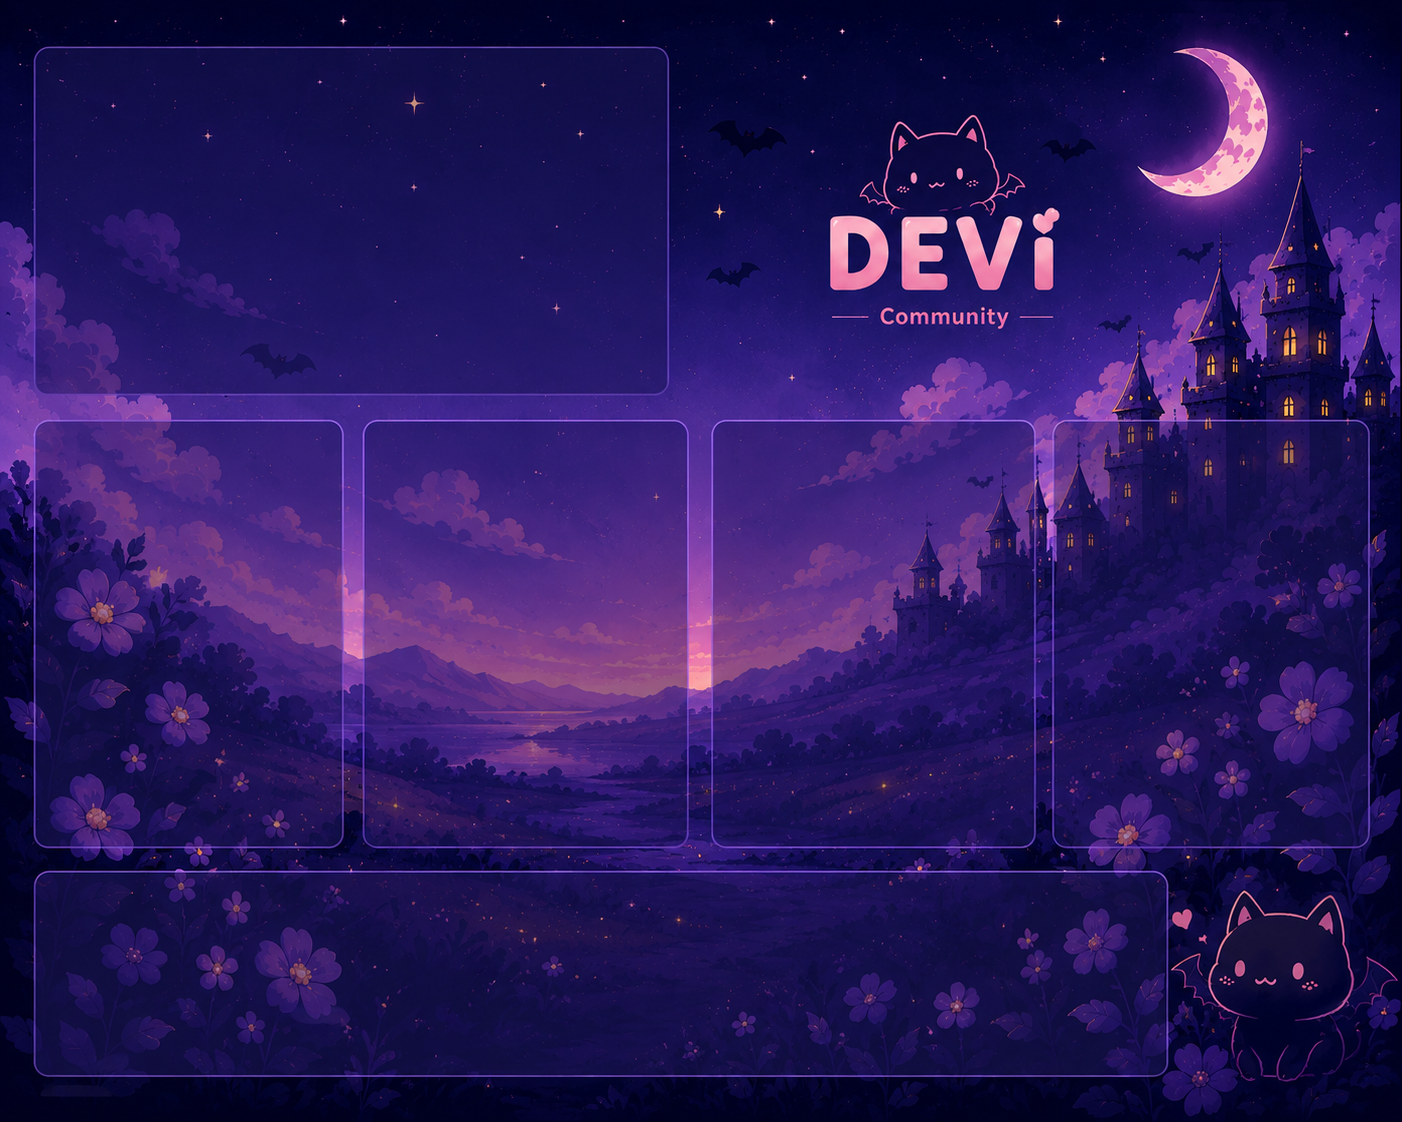
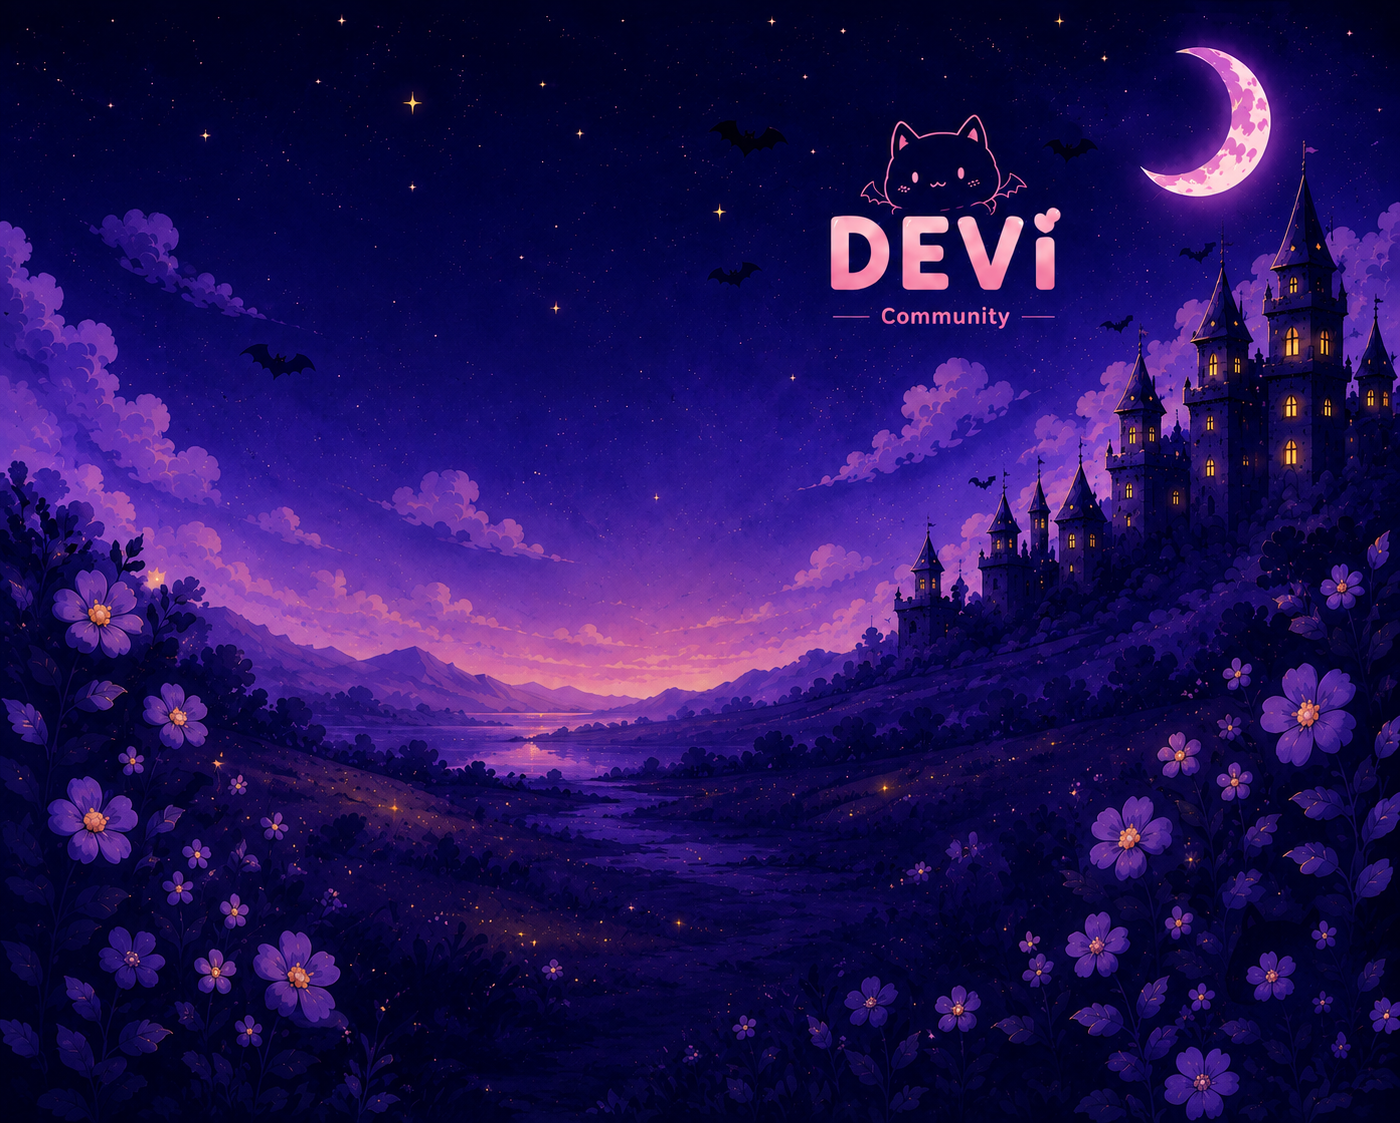
Update bot

diff --git a/cogs/member_onboarding.py b/cogs/member_onboarding.py
@@ -702,153 +702,8 @@ def _draw_centered_text(draw, box, text, font, fill):
     draw.text(((x1 + x2) / 2, (y1 + y2) / 2), text, font=font, fill=fill, anchor='mm')
 
 
-async def _build_profile_card_file_legacy(member, p):
-    """背景・ガラスUI・可変情報を完全分離してプロフィールカードを生成する。"""
-    from datetime import datetime, timezone
-
-    width, height = 1370, 1148
-    root = os.path.dirname(os.path.dirname(__file__))
-    raw_theme_key = (p.get('profile_theme') or 'devi').strip()
-    theme_key = THEME_ALIASES.get(raw_theme_key, raw_theme_key)
-    bg_path = os.path.join(root, 'assets', 'profile', 'backgrounds', f'{theme_key}.png')
-    overlay_path = os.path.join(root, 'assets', 'profile', 'overlays', 'glass_overlay.png')
-
-    try:
-        src = Image.open(bg_path).convert('RGB')
-        img = ImageOps.fit(src, (width, height), method=Image.Resampling.LANCZOS).convert('RGBA')
-    except Exception:
-        img = Image.new('RGBA', (width, height), '#20213f')
-
-    try:
-        overlay = Image.open(overlay_path).convert('RGBA')
-        if overlay.size != (width, height):
-            overlay = overlay.resize((width, height), Image.Resampling.LANCZOS)
-        img.alpha_composite(overlay)
-    except Exception:
-        pass
-
-    draw = ImageDraw.Draw(img)
-    text_main = (246, 244, 252)
-    text_sub = (196, 184, 220)
-    input_fill = (20, 20, 48, 210)
-    title_col = (211, 172, 240)
-
-    small = _find_japanese_font(22)
-    small_b = _find_japanese_font(22, bold=True)
-    medium = _find_japanese_font(28)
-    medium_b = _find_japanese_font(28, bold=True)
-
-    name = (p.get('nickname') or member.display_name).strip()
-    mbti = (p.get('mbti') or '').strip() or '未設定'
-    hobby = (p.get('hobby') or '').strip() or '—'
-    comment = (p.get('comment') or '').strip() or '—'
-
-    # Header profile information
-    draw.text((350, 92), 'MEMBER PROFILE', font=_find_japanese_font(25, bold=True), fill=title_col)
-    nf = _fit_text(draw, name, 280, 64, 36, bold=True)
-    draw.text((350, 140), name, font=nf, fill=text_main)
-    draw.text((350, 220), f'@{member.name}', font=medium, fill=(174, 157, 201))
-    badge_w = max(100, draw.textbbox((0, 0), mbti, font=medium_b)[2] + 38)
-    badge_box = (350, 265, 350 + badge_w, 321)
-    draw.rounded_rectangle(badge_box, radius=15, fill=(72, 53, 125, 230), outline=(168, 132, 220), width=2)
-    _draw_centered_text(draw, badge_box, mbti, medium_b, text_main)
-    qtext = comment.replace('☆', '★')
-    qf = _fit_text(draw, qtext, 285, 30, 18)
-    draw.text((350, 353), f'“ {qtext} ”', font=qf, fill=(235, 229, 244))
-
-    # Avatar
-    avatar_size = 250
-    ax, ay = 58, 92
-    try:
-        avatar_bytes = await member.display_avatar.with_size(512).read()
-        avatar = Image.open(io.BytesIO(avatar_bytes)).convert('RGB')
-        avatar = ImageOps.fit(avatar, (avatar_size, avatar_size), method=Image.Resampling.LANCZOS)
-        mask = Image.new('L', (avatar_size, avatar_size), 0)
-        ImageDraw.Draw(mask).ellipse((0, 0, avatar_size - 1, avatar_size - 1), fill=255)
-        draw.ellipse((ax - 10, ay - 10, ax + avatar_size + 10, ay + avatar_size + 10), fill=(174, 145, 220))
-        img.paste(avatar, (ax, ay), mask)
-        draw.ellipse((ax + 218, ay + 218, ax + 252, ay + 252), fill=(93, 212, 139), outline=(55, 50, 92), width=4)
-    except Exception:
-        pass
-
-    # Section titles
-    for text, pos in [('ABOUT ME',(50,477)),('ABOUT ME+',(378,477)),('BADGES',(694,477)),('RANKING',(1008,477))]:
-        draw.text(pos, text, font=_find_japanese_font(28, bold=True), fill=title_col)
-
-    # ABOUT ME
-    rows = [('名前', name), ('MBTI', mbti), ('趣味', hobby), ('一言', comment)]
-    ys = [590, 660, 730, 800]
-    for (lab, val), yy in zip(rows, ys):
-        draw.text((58, yy), lab, font=small_b, fill=(204, 188, 224), anchor='lm')
-        vf = _fit_text(draw, val, 145, 25, 16)
-        draw.text((180, yy), val, font=vf, fill=text_main, anchor='lm')
-
-    # ABOUT ME+
-    py = 560
-    for i in (1, 2, 3):
-        q = (p.get(f'about_q{i}') or '').strip() or f'自由項目{i}'
-        a = (p.get(f'about_a{i}') or '').strip() or '—'
-        qf = _fit_text(draw, q, 240, 22, 15, bold=True)
-        draw.text((378, py), q, font=qf, fill=(214, 199, 230))
-        box = (378, py + 31, 620, py + 82)
-        draw.rounded_rectangle(box, radius=10, fill=input_fill, outline=(77, 69, 113), width=1)
-        af = _fit_text(draw, a, 218, 21, 14)
-        draw.text((392, py + 57), a, font=af, fill=text_main, anchor='lm')
-        py += 112
-
-    # BADGES
-    selected = []
-    for key in _badge_keys(p):
-        info = BADGE_LOOKUP[key]
-        selected.append((info['label'], info['color']))
-    custom = (p.get('custom_badge') or '').strip()
-    if custom:
-        selected.append((custom, (130, 145, 170)))
-    selected = selected[:4]
-    while len(selected) < 4:
-        selected.append(('未設定', (90, 90, 120)))
-    boxes = [(688, 575, 806, 685), (820, 575, 940, 685), (688, 710, 806, 820), (820, 710, 940, 820)]
-    for (label, color), box in zip(selected, boxes):
-        fill = tuple(max(18, int(c * .22)) for c in color) + (235,)
-        draw.rounded_rectangle(box, radius=18, fill=fill, outline=color, width=2)
-        cx = (box[0] + box[2]) // 2
-        draw.ellipse((cx - 10, box[1] + 17, cx + 10, box[1] + 37), fill=color)
-        bf = _fit_text(draw, label, box[2] - box[0] - 16, 20, 13, bold=True)
-        draw.text((cx, box[1] + 80), label, font=bf, fill=text_main, anchor='mm')
-
-    # RANKING
-    stats = _profile_weekly_stats(member.guild.id, member.id)
-    joined_days = 0
-    if getattr(member, 'joined_at', None):
-        joined_days = max(1, (datetime.now(timezone.utc) - member.joined_at).days + 1)
-    ranks = [
-        ('VC時間（今週）', f"{stats['vc_rank']}位" if stats['vc_rank'] else '—', _format_profile_vc(stats['vc_total']), (105, 174, 255)),
-        ('チャット数（今週）', f"{stats['chat_rank']}位" if stats['chat_rank'] else '—', f"{stats['chat_total']:,}件", (247, 106, 157)),
-        ('サーバー参加日数', f'{joined_days}日' if joined_days else '—', '', (93, 211, 145)),
-    ]
-    ry = [590, 710, 820]
-    for (lab, val, detail, col), yy in zip(ranks, ry):
-        draw.text((1010, yy), lab, font=small, fill=text_main, anchor='lm')
-        draw.text((1287, yy), val, font=medium_b, fill=col, anchor='rm')
-        if detail:
-            draw.text((1287, yy + 34), detail, font=small, fill=text_sub, anchor='rm')
-
-    # Bottom panels
-    free = ((p.get('free_text') or '').strip() or hobby or '—').replace('☆', '★')
-    draw.text((250, 965), '好きなこと', font=_find_japanese_font(30, bold=True), fill=(238, 139, 193))
-    ff = _fit_text(draw, free, 570, 30, 17)
-    draw.text((250, 1040), free, font=ff, fill=text_main)
-    draw.text((1114, 985), 'DEVI', font=_find_japanese_font(32, bold=True), fill=(235, 140, 194), anchor='ma')
-    draw.text((1114, 1032), 'MEMBER PROFILE', font=small, fill=(170, 153, 199), anchor='ma')
-
-    out = io.BytesIO()
-    img.convert('RGB').save(out, format='PNG', optimize=True)
-    out.seek(0)
-    return discord.File(out, filename=f'profile_{member.id}.png')
-
-
 async def build_profile_card_file(member, p):
-    """DEVI・桜の完成背景へ、同一レイアウトで可変文字とアバターだけを描画する。"""
+    """背景画像 + 共通ガラスUI素材 + 可変文字/アバターでプロフィールカードを生成する。"""
     from datetime import datetime, timezone
 
     raw_theme_key = (p.get('profile_theme') or 'devi').strip()
@@ -858,6 +713,7 @@ async def build_profile_card_file(member, p):
 
     root = os.path.dirname(os.path.dirname(__file__))
     bg_path = os.path.join(root, 'assets', 'profile', 'backgrounds', f'{theme_key}.png')
+    overlay_path = os.path.join(root, 'assets', 'profile', 'overlays', 'glass_overlay.png')
     width, height = 1402, 1122
 
     try:
@@ -866,6 +722,15 @@ async def build_profile_card_file(member, p):
             img = ImageOps.fit(img, (width, height), method=Image.Resampling.LANCZOS)
     except Exception:
         img = Image.new('RGBA', (width, height), '#15133d')
+
+    # 旧背景埋め込み枠は使わず、共通UI素材を重ねる。
+    try:
+        overlay = Image.open(overlay_path).convert('RGBA')
+        if overlay.size != (width, height):
+            overlay = overlay.resize((width, height), Image.Resampling.LANCZOS)
+        img = Image.alpha_composite(img, overlay)
+    except Exception:
+        pass
 
     draw = ImageDraw.Draw(img)
     text_main = (250, 247, 255)
@@ -883,7 +748,7 @@ async def build_profile_card_file(member, p):
     hobby = (p.get('hobby') or '').strip() or '—'
     comment = (p.get('comment') or '').strip() or '—'
 
-    # ── 左上：プロフィール基本情報（枠 34,46 ～ 656,387） ──
+    # ── 上段：PROFILE ──
     avatar_size = 238
     ax, ay = 58, 91
     try:
@@ -902,70 +767,49 @@ async def build_profile_card_file(member, p):
 
     tx = 330
     draw.text((tx, 87), 'MEMBER PROFILE', font=_find_japanese_font(24, bold=True), fill=title_col)
-    nf = _fit_text(draw, name, 292, 58, 34, bold=True)
+    nf = _fit_text(draw, name, 292, 58, 30, bold=True)
     draw.text((tx, 132), name, font=nf, fill=text_main)
-    draw.text((tx, 202), f'@{member.name}', font=medium, fill=text_sub)
+    user_name = f'@{member.name}'
+    uf = _fit_text(draw, user_name, 292, 27, 17)
+    draw.text((tx, 202), user_name, font=uf, fill=text_sub)
 
     badge_w = min(280, max(104, draw.textbbox((0, 0), mbti, font=medium_b)[2] + 42))
     badge_box = (tx, 247, tx + badge_w, 302)
-    draw.rounded_rectangle(badge_box, radius=15, fill=(58, 35, 104, 220), outline=soft_line, width=2)
+    draw.rounded_rectangle(badge_box, radius=15, fill=(58, 35, 104, 205), outline=soft_line, width=2)
     _draw_centered_text(draw, badge_box, mbti, medium_b, text_main)
 
     qtext = comment.replace('☆', '★')
-    qf = _fit_text(draw, f'“ {qtext} ”', 292, 27, 16)
+    qf = _fit_text(draw, f'“ {qtext} ”', 292, 27, 14)
     draw.text((tx, 331), f'“ {qtext} ”', font=qf, fill=(240, 231, 248))
 
-    # ── 中段：4つの透明枠 ──
+    # ── 中段：ABOUT ME / ABOUT ME+ / RANKING ──
     title_font = _find_japanese_font(27, bold=True)
     draw.text((55, 438), 'ABOUT ME', font=title_font, fill=title_col)
-    draw.text((398, 438), 'ABOUT ME+', font=title_font, fill=title_col)
-    draw.text((744, 438), 'BADGES', font=title_font, fill=title_col)
-    draw.text((1085, 438), 'RANKING', font=title_font, fill=title_col)
+    draw.text((487, 438), 'ABOUT ME+', font=title_font, fill=title_col)
+    draw.text((929, 438), 'RANKING', font=title_font, fill=title_col)
 
-    # ABOUT ME（枠 34,412 ～ 337,831）
+    # ABOUT ME（34,412 ～ 445,831）
     rows = [('名前', name), ('MBTI', mbti), ('趣味', hobby), ('一言', comment)]
     ys = [540, 620, 700, 780]
     for (lab, val), yy in zip(rows, ys):
         draw.text((55, yy), lab, font=small_b, fill=(220, 199, 235), anchor='lm')
-        vf = _fit_text(draw, val, 154, 24, 15)
-        draw.text((165, yy), val, font=vf, fill=text_main, anchor='lm')
+        vf = _fit_text(draw, val, 245, 24, 13)
+        draw.text((155, yy), val, font=vf, fill=text_main, anchor='lm')
 
-    # ABOUT ME+（枠 356,412 ～ 677,831）
+    # ABOUT ME+（466,412 ～ 887,831）
     py = 510
     for i in (1, 2, 3):
         q = (p.get(f'about_q{i}') or '').strip() or f'自由項目{i}'
         a = (p.get(f'about_a{i}') or '').strip() or '—'
-        qf = _fit_text(draw, q, 270, 21, 14, bold=True)
-        draw.text((398, py), q, font=qf, fill=(224, 205, 237))
-        box = (398, py + 31, 673, py + 83)
-        draw.rounded_rectangle(box, radius=10, fill=(18, 14, 54, 165), outline=(112, 83, 155, 210), width=1)
-        af = _fit_text(draw, a, 246, 20, 13)
-        draw.text((412, py + 58), a, font=af, fill=text_main, anchor='lm')
+        qf = _fit_text(draw, q, 360, 21, 13, bold=True)
+        draw.text((487, py), q, font=qf, fill=(224, 205, 237))
+        box = (487, py + 31, 866, py + 83)
+        draw.rounded_rectangle(box, radius=10, fill=(18, 14, 54, 145), outline=(112, 83, 155, 190), width=1)
+        af = _fit_text(draw, a, 350, 20, 12)
+        draw.text((501, py + 58), a, font=af, fill=text_main, anchor='lm')
         py += 105
 
-    # BADGES（枠 698,412 ～ 1016,831）
-    selected = []
-    for key in _badge_keys(p):
-        info = BADGE_LOOKUP[key]
-        selected.append((info['label'], info['color']))
-    custom = (p.get('custom_badge') or '').strip()
-    if custom:
-        selected.append((custom, (150, 142, 180)))
-    selected = selected[:4]
-    while len(selected) < 4:
-        selected.append(('未設定', (98, 88, 132)))
-
-    boxes = [(745, 540, 865, 650), (883, 540, 1003, 650),
-             (745, 682, 865, 792), (883, 682, 1003, 792)]
-    for (label, color), box in zip(selected, boxes):
-        fill = tuple(max(18, int(c * .20)) for c in color) + (215,)
-        draw.rounded_rectangle(box, radius=17, fill=fill, outline=color, width=2)
-        cx = (box[0] + box[2]) // 2
-        draw.ellipse((cx - 10, box[1] + 18, cx + 10, box[1] + 38), fill=color)
-        bf = _fit_text(draw, label, box[2] - box[0] - 14, 19, 12, bold=True)
-        draw.text((cx, box[1] + 82), label, font=bf, fill=text_main, anchor='mm')
-
-    # RANKING（枠 1034,412 ～ 1345,831）
+    # RANKING（908,412 ～ 1345,831）
     stats = _profile_weekly_stats(member.guild.id, member.id)
     joined_days = 0
     if getattr(member, 'joined_at', None):
@@ -977,40 +821,37 @@ async def build_profile_card_file(member, p):
     ]
     ry = [548, 670, 786]
     for (lab, val, detail, col), yy in zip(ranks, ry):
-        lf = _fit_text(draw, lab, 176, 20, 14)
-        draw.text((1085, yy), lab, font=lf, fill=text_main, anchor='lm')
-        vf = _fit_text(draw, val, 90, 27, 18, bold=True)
-        draw.text((1328, yy), val, font=vf, fill=col, anchor='rm')
+        lf = _fit_text(draw, lab, 235, 20, 13)
+        draw.text((929, yy), lab, font=lf, fill=text_main, anchor='lm')
+        vf = _fit_text(draw, val, 120, 27, 16, bold=True)
+        draw.text((1320, yy), val, font=vf, fill=col, anchor='rm')
         if detail:
-            df = _fit_text(draw, detail, 120, 19, 13)
-            draw.text((1328, yy + 32), detail, font=df, fill=text_sub, anchor='rm')
+            df = _fit_text(draw, detail, 155, 19, 12)
+            draw.text((1320, yy + 32), detail, font=df, fill=text_sub, anchor='rm')
 
-    # ── 下段：好きなこと（枠 34,855 ～ 1147,1056） ──
-    free = ((p.get('free_text') or '').strip() or hobby or '—').replace('☆', '★')
-    draw.text((60, 885), '好きなこと', font=_find_japanese_font(29, bold=True), fill=title_col)
-    # 長文は2行まで自動折返し
-    max_width = 1010
-    words = list(free)
-    lines, current = [], ''
-    body_font = _find_japanese_font(27)
-    for ch in words:
-        test = current + ch
-        if draw.textbbox((0, 0), test, font=body_font)[2] <= max_width:
-            current = test
-        else:
-            if current:
-                lines.append(current)
-            current = ch
-            if len(lines) == 1:
-                break
-    if current and len(lines) < 2:
-        lines.append(current)
-    if len(''.join(lines)) < len(free) and lines:
-        while lines[-1] and draw.textbbox((0, 0), lines[-1] + '…', font=body_font)[2] > max_width:
-            lines[-1] = lines[-1][:-1]
-        lines[-1] += '…'
-    draw.multiline_text((60, 948), '\n'.join(lines or ['—']), font=body_font,
-                        fill=text_main, spacing=13)
+    # ── 下段：BADGES ──
+    draw.text((60, 881), 'BADGES', font=_find_japanese_font(29, bold=True), fill=title_col)
+    selected = []
+    for key in _badge_keys(p):
+        info = BADGE_LOOKUP[key]
+        selected.append((info['label'], info['color']))
+    custom = (p.get('custom_badge') or '').strip()
+    if custom:
+        selected.append((custom, (150, 142, 180)))
+    selected = selected[:6]
+    while len(selected) < 6:
+        selected.append(('未設定', (98, 88, 132)))
+
+    start_x, gap, bw, bh, by = 62, 18, 197, 105, 930
+    for i, (label, color) in enumerate(selected):
+        x1 = start_x + i * (bw + gap)
+        box = (x1, by, x1 + bw, by + bh)
+        fill = tuple(max(18, int(c * .20)) for c in color) + (195,)
+        draw.rounded_rectangle(box, radius=17, fill=fill, outline=color, width=2)
+        cx = (box[0] + box[2]) // 2
+        draw.ellipse((cx - 10, box[1] + 18, cx + 10, box[1] + 38), fill=color)
+        bf = _fit_text(draw, label, box[2] - box[0] - 16, 19, 11, bold=True)
+        draw.text((cx, box[1] + 78), label, font=bf, fill=text_main, anchor='mm')
 
     out = io.BytesIO()
     img.convert('RGB').save(out, format='PNG', optimize=True)

diff --git a/assets/profile/README.md b/assets/profile/README.md
@@ -1,6 +1,12 @@
-# Profile assets
+# Profile card assets
 
-- `backgrounds/<theme>.png`: 背景アートのみ（文字・枠・可変情報なし）
-- `overlays/glass_overlay.png`: 共通ガラスUI。背景とは独立した透過PNG
+- `backgrounds/*.png`: 背景画像のみ。UI枠や文字を焼き込まない。
+- `overlays/glass_overlay.png`: 全背景で共通使用するプロフィールUI素材。
+- `cogs/member_onboarding.py`: 背景→共通UI→可変文字/アバターの順で合成。
 
-描画順: 背景 → glass_overlay → アバター・文字・バッジ・ランキング
+現行レイアウト:
+1. PROFILE
+2. ABOUT ME / ABOUT ME+ / RANKING
+3. BADGES
+
+旧4分割レイアウト、旧「好きなこと」下段、旧レガシー描画関数は削除済み。